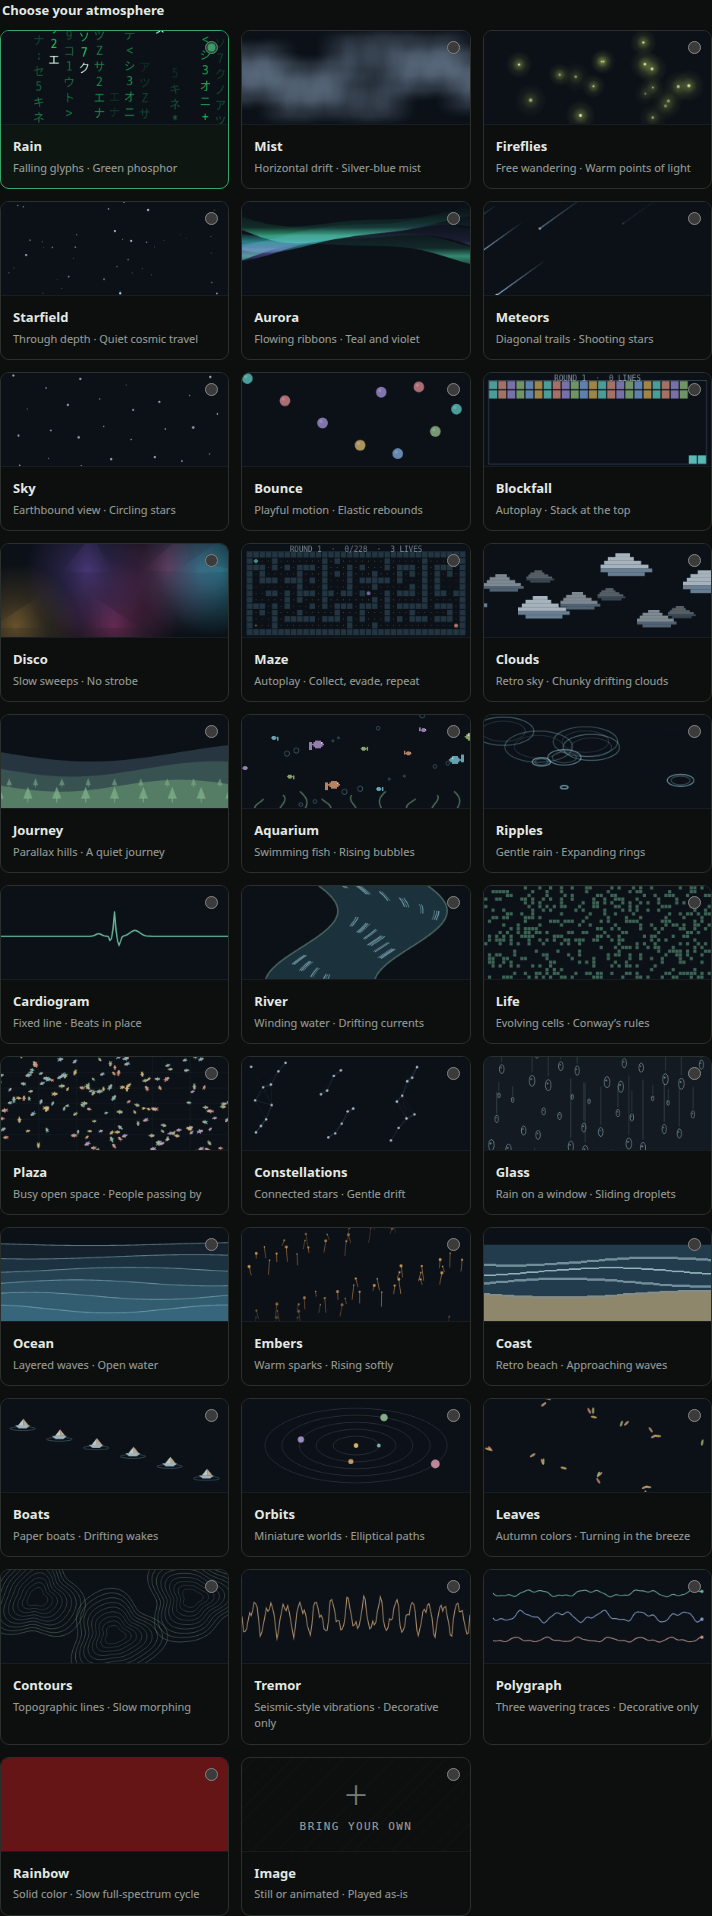
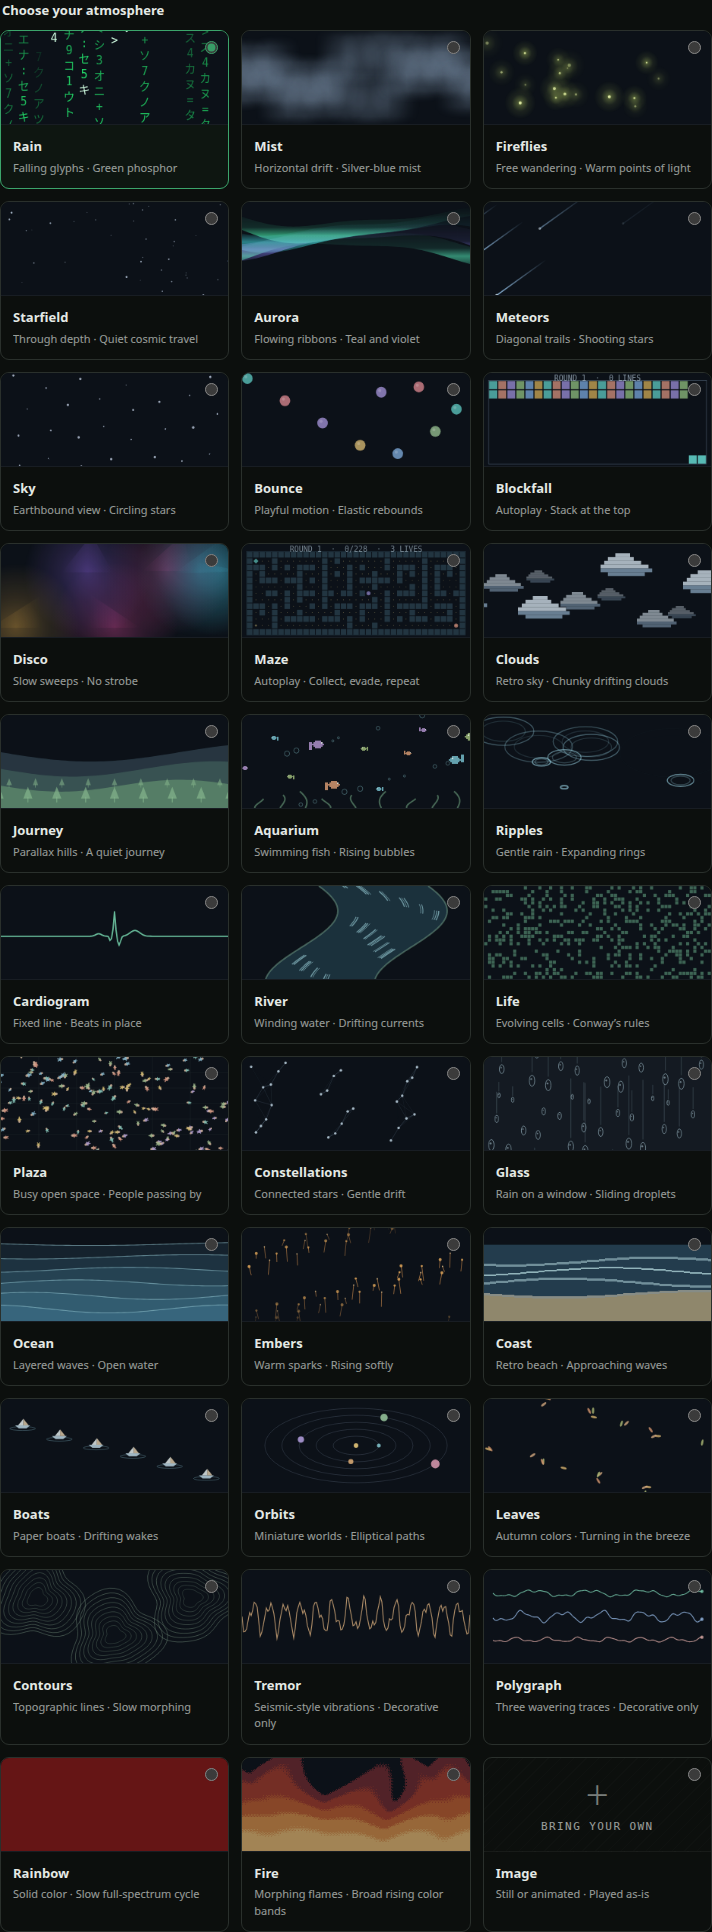
Add broad morphing Fire wallpaper for preview

diff --git a/tests/fire.test.ts b/tests/fire.test.ts
@@ -1,0 +1,99 @@
+import { expect, it } from "vitest"
+import { createScene } from "../src/scenes"
+import { fireLift, FIRE_MAX_PIXELS, FIRE_PALETTES } from "../src/scenes-fire"
+import { drawing } from "./environment"
+
+const context = drawing as unknown as CanvasRenderingContext2D
+function frame() {
+  const image = drawing.putImageData.mock.calls.at(-1)![0] as ImageData
+  return { width: image.width, height: image.height, data: new Uint8ClampedArray(image.data) }
+}
+
+it("Fire carries its broad deformation upward rather than scrolling a fixed picture", () => {
+  // The travelling deformation advances 0.26 / 8 canvas heights per second.
+  for (const height of [0.1, 0.4, 0.8]) {
+    expect(fireLift(height + 0.26 / 8 * 2, 7)).toBeCloseTo(fireLift(height, 5), 10)
+  }
+  const scene = createScene("fire")
+  scene.resize(800, 600); scene.draw(context, 0, 1)
+  const before = frame()
+  for (let i = 0; i < 100; i++) scene.draw(context, 0.1, 1)
+  const after = frame()
+  expect(after.data).not.toEqual(before.data)
+  // Each broad tongue also changes its silhouette, not merely its vertical phase.
+  const edge = (image: ReturnType<typeof frame>) => Array.from({ length: image.width }, (_, x) => {
+    for (let y = 0; y < image.height; y++) if (image.data[(y * image.width + x) * 4 + 3]) return y
+    return image.height
+  })
+  const afterEdge = edge(after), shifts = edge(before).map((value, x) => afterEdge[x] - value)
+  expect(new Set(shifts).size).toBeGreaterThan(10)
+})
+
+it("Fire covers most of landscape and portrait canvases with five fixed warm pigments", () => {
+  for (const appearance of ["dark", "light"] as const) for (const [width, height] of [[1200, 600], [390, 844]]) {
+    const scene = createScene("fire")
+    scene.resize(width, height)
+    for (const elapsed of [0, 10, 20]) {
+      for (let i = 0; i < elapsed * 10; i++) scene.draw(context, 0.1, 1, appearance)
+      scene.draw(context, 0, 1, appearance)
+      const image = frame(), colors = new Set<string>(), alphas = new Set<number>()
+      let painted = 0, upper = 0, bottom = 0
+      for (let pixel = 0; pixel < image.data.length / 4; pixel++) {
+        if (!image.data[pixel * 4 + 3]) continue
+        painted++
+        if (pixel < image.width * image.height * 0.2) upper++
+        if (pixel >= image.width * (image.height - 1)) bottom++
+        colors.add([...image.data.slice(pixel * 4, pixel * 4 + 3)].join(","))
+        alphas.add(image.data[pixel * 4 + 3])
+      }
+      expect(painted / (image.width * image.height)).toBeGreaterThan(0.75)
+      expect(upper).toBeGreaterThan(image.width * image.height * 0.05)
+      expect(bottom).toBe(image.width)
+      expect([...alphas]).toEqual([175])
+      expect([...colors].sort()).toEqual(FIRE_PALETTES[appearance].map(color => color.join(",")).sort())
+      expect(drawing.drawImage).toHaveBeenLastCalledWith(expect.any(HTMLCanvasElement), 0, 0, width, height)
+    }
+  }
+})
+
+it("Fire reuses a bounded raster, preserves paused time on resize, and restores dark colors", () => {
+  const scene = createScene("fire")
+  scene.resize(800, 600); scene.draw(context, 0.1, 1, "dark")
+  const dark = frame(), allocations = drawing.createImageData.mock.calls.length
+  scene.draw(context, 0, 1, "dark")
+  expect(frame().data).toEqual(dark.data)
+  expect(drawing.createImageData).toHaveBeenCalledTimes(allocations)
+  scene.draw(context, 0, 1, "light")
+  expect(frame().data).not.toEqual(dark.data)
+  scene.draw(context, 0, 1, "dark")
+  expect(frame().data).toEqual(dark.data)
+  for (const [width, height] of [[7680, 4320], [4320, 7680], [20000, 20], [1, 1]]) {
+    scene.resize(width, height); scene.draw(context, 0, 1)
+    const image = frame()
+    expect(image.width * image.height).toBeLessThanOrEqual(FIRE_MAX_PIXELS)
+    expect(Math.max(image.width, image.height)).toBeLessThanOrEqual(320)
+  }
+  scene.resize(800, 600); scene.draw(context, 0, 1, "dark")
+  expect(frame().data).toEqual(dark.data)
+  scene.resize(0, 0)
+  const paints = drawing.putImageData.mock.calls.length
+  scene.draw(context, 0.1, 1)
+  expect(drawing.putImageData).toHaveBeenCalledTimes(paints)
+})
+
+it("Fire changes gradually without randomized dither or whole-frame flicker", () => {
+  const scene = createScene("fire")
+  scene.resize(800, 600); scene.draw(context, 0, 1)
+  let before = frame()
+  for (let step = 0; step < 20; step++) {
+    scene.draw(context, 0.1, 1)
+    const after = frame()
+    let changed = 0
+    for (let pixel = 0; pixel < after.data.length / 4; pixel++) {
+      const offset = pixel * 4
+      if (after.data[offset] !== before.data[offset] || after.data[offset + 3] !== before.data[offset + 3]) changed++
+    }
+    expect(changed / (after.width * after.height)).toBeLessThan(0.02)
+    before = after
+  }
+})

diff --git a/src/scenes-fire.ts b/src/scenes-fire.ts
@@ -1,0 +1,83 @@
+import { AmbientScene, type Appearance } from "./scene"
+
+// Five pigments, not a bright photographic fire. Transparency lets the app's
+// surface remain part of the picture; light mode uses warm terracotta/pastels.
+export const FIRE_PALETTES = {
+  dark: [[113, 42, 48], [164, 60, 43], [193, 95, 48], [215, 143, 73], [231, 185, 113]],
+  light: [[177, 99, 91], [191, 116, 87], [205, 143, 97], [219, 171, 120], [231, 197, 151]],
+} as const satisfies Record<Appearance, readonly (readonly [number, number, number])[]>
+export const FIRE_MAX_PIXELS = 49152
+
+// A stationary ordered screen avoids random sparkling as the flames morph.
+const bayer = [0, 8, 2, 10, 12, 4, 14, 6, 3, 11, 1, 9, 15, 7, 13, 5]
+const smooth = (value: number) => { const t = Math.max(0, Math.min(1, value)); return t * t * (3 - 2 * t) }
+
+/** Features move toward increasing height, i.e. up from the canvas bottom. */
+export function fireLift(height: number, time: number) {
+  return Math.sin(height * 8 - time * 0.26)
+}
+
+export class Fire extends AmbientScene {
+  private texture: HTMLCanvasElement | undefined
+  private context: CanvasRenderingContext2D | null = null
+  private pixels: ImageData | undefined
+
+  protected layout() {
+    if (!this.width || !this.height) return
+    this.texture ??= document.createElement("canvas")
+    const scale = Math.min(1, 320 / this.width, 320 / this.height, Math.sqrt(FIRE_MAX_PIXELS / (this.width * this.height)))
+    const width = Math.max(1, Math.floor(this.width * scale)), height = Math.max(1, Math.floor(this.height * scale))
+    if (this.pixels?.width === width && this.pixels.height === height) return
+    this.texture.width = width; this.texture.height = height
+    this.context = this.texture.getContext("2d")
+    this.pixels = this.context?.createImageData(width, height)
+  }
+
+  protected paint(ctx: CanvasRenderingContext2D) {
+    if (!this.texture || !this.context || !this.pixels) return
+    const { width, height, data } = this.pixels, palette = FIRE_PALETTES[this.appearance]
+    // Broad overlapping tongues share a base. Their heights, widths, and bends
+    // evolve independently: this is a morphing field, never a translated bitmap.
+    const tongues = Array.from({ length: 5 }, (_, i) => ({
+      center: -0.02 + i * 0.26,
+      height: 1.02 + Math.sin(i * 2.1 + this.time * 0.09) * 0.12,
+      width: 0.23 + Math.sin(i * 1.7 - this.time * 0.07) * 0.035,
+      phase: i * 1.9,
+    }))
+    const row = tongues.map(() => ({ center: 0, width: 0, heat: 0 }))
+    for (let y = 0; y < height; y++) {
+      const rise = 1 - (y + 0.5) / height, lift = fireLift(rise, this.time)
+      // Trigonometry is evaluated per row/tongue, not for each output pixel.
+      for (let i = 0; i < tongues.length; i++) {
+        const tongue = tongues[i]
+        row[i].center = tongue.center + rise * (Math.sin(rise * 4 - this.time * 0.12 + tongue.phase) * 0.16
+          + Math.sin(rise * 7 - this.time * 0.19 + tongue.phase) * 0.035)
+        row[i].width = tongue.width * (1 - rise * 0.68)
+        row[i].heat = (tongue.height - rise) / tongue.height + lift * 0.045
+      }
+      for (let x = 0; x < width; x++) {
+        const horizontal = (x + 0.5) / width
+        let heat = -1
+        for (const tongue of row) {
+          const distance = (horizontal - tongue.center) / tongue.width
+          const next = tongue.heat - distance * distance * 0.22
+          const blend = Math.max(0, 0.1 - Math.abs(heat - next)) / 0.1
+          heat = Math.max(heat, next) + blend * blend * 0.025
+        }
+        // Wide flat bands with a little ordered mixing only at their boundaries.
+        // Index zero is transparent; the five remaining levels use fixed pigments.
+        const level = Math.max(0, Math.min(5, heat * 5 + 0.35)), lower = Math.floor(level)
+        const fraction = smooth((level - lower - 0.3) / 0.4)
+        const index = Math.min(5, lower + (fraction > (bayer[(y % 4) * 4 + x % 4] + 0.5) / 16 ? 1 : 0))
+        const offset = (y * width + x) * 4, color = palette[Math.max(0, index - 1)]
+        data[offset] = color[0]; data[offset + 1] = color[1]; data[offset + 2] = color[2]
+        data[offset + 3] = index ? 175 : 0
+      }
+    }
+    this.context.putImageData(this.pixels, 0, 0)
+    ctx.globalAlpha = 1
+    // Soft upscaling keeps the tiny dither screen subordinate to reading text.
+    ctx.imageSmoothingEnabled = true
+    ctx.drawImage(this.texture, 0, 0, this.width, this.height)
+  }
+}

diff --git a/tests/scenes.test.ts b/tests/scenes.test.ts
@@ -5,10 +5,12 @@ import { drawing } from "./environment"
 
 const context = drawing as unknown as CanvasRenderingContext2D
 function commands() {
-  return [drawing.fillText, drawing.drawImage, drawing.arc, drawing.ellipse, drawing.moveTo, drawing.lineTo, drawing.fillRect, drawing.strokeRect].map(fn => [...fn.mock.calls])
+  const vectors = [drawing.fillText, drawing.drawImage, drawing.arc, drawing.ellipse, drawing.moveTo, drawing.lineTo, drawing.fillRect, drawing.strokeRect].map(fn => [...fn.mock.calls])
+  // Raster scenes reuse their ImageData; snapshot bytes before the next paint.
+  return [...vectors, drawing.putImageData.mock.calls.map(([image]) => [...image.data])]
 }
 function clearCommands() {
-  for (const fn of [drawing.fillText, drawing.drawImage, drawing.arc, drawing.ellipse, drawing.moveTo, drawing.lineTo, drawing.fillRect, drawing.strokeRect]) fn.mockClear()
+  for (const fn of [drawing.fillText, drawing.drawImage, drawing.arc, drawing.ellipse, drawing.moveTo, drawing.lineTo, drawing.fillRect, drawing.strokeRect, drawing.putImageData]) fn.mockClear()
 }
 
 describe("wallpaper collection", () => {
@@ -64,7 +66,7 @@ describe("wallpaper collection", () => {
   }
   it("offers each built-in exactly once without a user-configurable direction", () => {
     expect(collection.map(scene => scene.id)).toEqual(MODES.filter(mode => mode !== "image"))
-    expect(new Set(collection.map(scene => scene.id)).size).toBe(31)
+    expect(new Set(collection.map(scene => scene.id)).size).toBe(32)
     expect(wallpaperName("image")).toBe("Image")
   })
   it("uses unique single-word display names without changing stored mode IDs", () => {
@@ -75,7 +77,7 @@ describe("wallpaper collection", () => {
       "ripple-pond": "Ripples", cardiogram: "Cardiogram", river: "River", life: "Life", plaza: "Plaza",
       constellations: "Constellations", glass: "Glass", ocean: "Ocean", embers: "Embers", coast: "Coast",
       boats: "Boats", orbits: "Orbits", leaves: "Leaves", contours: "Contours", tremor: "Tremor", polygraph: "Polygraph",
-      rainbow: "Rainbow",
+      rainbow: "Rainbow", fire: "Fire",
     })
     const titles = [...collection.map(scene => scene.title), wallpaperName("image")]
     expect(titles.every(title => /^\p{L}+$/u.test(title))).toBe(true)

diff --git a/src/scenes.ts b/src/scenes.ts
@@ -10,6 +10,7 @@ import { Glass, Ocean, Coast, Embers, Leaves } from "./scenes-landscapes"
 import { Constellations, Orbits, Boats, Contours } from "./scenes-patterns"
 import { Tremor, Polygraph } from "./scenes-instruments"
 import { Rainbow } from "./scenes-color"
+import { Fire } from "./scenes-fire"
 export type { Appearance, Scene } from "./scene"
 
 export const collection: ReadonlyArray<{ id: BuiltinMode; title: string; description: string }> = [
@@ -44,6 +45,7 @@ export const collection: ReadonlyArray<{ id: BuiltinMode; title: string; descrip
   { id: "tremor", title: "Tremor", description: "Seismic-style vibrations · Decorative only" },
   { id: "polygraph", title: "Polygraph", description: "Three wavering traces · Decorative only" },
   { id: "rainbow", title: "Rainbow", description: "Solid color · Slow full-spectrum cycle" },
+  { id: "fire", title: "Fire", description: "Morphing flames · Broad rising color bands" },
 ]
 
 export function wallpaperName(mode: string): string {
@@ -239,5 +241,6 @@ export function createScene(mode: BuiltinMode): Scene {
     case "tremor": return new Tremor()
     case "polygraph": return new Polygraph()
     case "rainbow": return new Rainbow()
+    case "fire": return new Fire()
   }
 }

diff --git a/src/gui.tsx b/src/gui.tsx
@@ -188,7 +188,7 @@ export default Plugin.define({
     ctx.add(SettingsPage, {
       id: "wallpaper", title: "Conversation wallpaper", icon: "settings-gear",
       entries: [
-        { id: "background", title: "Wallpaper collection and uploaded images", keywords: "matrix rain clouds fireflies starfield aurora meteors night sky balls blockfall disco maze pixel train aquarium pond cardiogram river life plaza people constellations glass ocean embers coast boats orbits leaves contours tremor polygraph waveform earthquake rainbow color spectrum hue wallpaper gif animation dimming pause" },
+        { id: "background", title: "Wallpaper collection and uploaded images", keywords: "matrix rain clouds fireflies starfield aurora meteors night sky balls blockfall disco maze pixel train aquarium pond cardiogram river life plaza people constellations glass ocean embers coast boats orbits leaves contours tremor polygraph waveform earthquake rainbow color spectrum hue fire flame dither wallpaper gif animation dimming pause" },
       ],
       render: () => <Settings />,
     })

diff --git a/src/preferences.ts b/src/preferences.ts
@@ -1,6 +1,6 @@
 export const MODES = ["matrix", "clouds", "fireflies", "starfield", "aurora", "meteors", "night-sky", "balls", "blockfall", "disco", "maze-chase",
   "pixel-clouds", "train-window", "aquarium", "ripple-pond", "cardiogram", "river", "life", "plaza",
-  "constellations", "glass", "ocean", "embers", "coast", "boats", "orbits", "leaves", "contours", "tremor", "polygraph", "rainbow", "image"] as const
+  "constellations", "glass", "ocean", "embers", "coast", "boats", "orbits", "leaves", "contours", "tremor", "polygraph", "rainbow", "fire", "image"] as const
 export type Mode = typeof MODES[number]
 export type BuiltinMode = Exclude<Mode, "image">
 export const MIN_SPEED = 0.2

diff --git a/tests/environment.ts b/tests/environment.ts
@@ -6,6 +6,8 @@ export const drawing = {
   arc: vi.fn(), ellipse: vi.fn(), fill: vi.fn(), moveTo: vi.fn(), lineTo: vi.fn(), stroke: vi.fn(),
   createLinearGradient: vi.fn(() => ({ addColorStop: vi.fn() })),
   createRadialGradient: vi.fn(() => ({ addColorStop: vi.fn() })),
+  createImageData: vi.fn((width: number, height: number) => ({ width, height, data: new Uint8ClampedArray(width * height * 4) })),
+  putImageData: vi.fn(),
   fillStyle: "", font: "", textAlign: "", globalAlpha: 1, lineWidth: 1, strokeStyle: "", globalCompositeOperation: "source-over",
 }
 export let reduced = false

diff --git a/README.md b/README.md
@@ -4,7 +4,7 @@ A small collection of animated atmospheres and local image backgrounds, behind c
 
 [Install](#install) · [Upgrade](#upgrade-an-existing-installation) · [Changelog](CHANGELOG.md) · [Development](#development) · [MIT license](LICENSE)
 
-![Wallpaper gallery with thirty-one single-word names and an Image upload option](docs/images/collection.png)
+![Wallpaper gallery with thirty-two single-word names and an Image upload option](docs/images/collection.png)
 
 ## The collection
 
@@ -41,6 +41,7 @@ A small collection of animated atmospheres and local image backgrounds, behind c
 | **Tremor** | Seismograph-style vibrations alternating between bursts and quieter intervals |
 | **Polygraph** | Three independently wavering, instrument-style traces |
 | **Rainbow** | One solid background color slowly cycling through the full color wheel |
+| **Fire** | Broad flame bands rising, bending, and slowly morphing across most of the background |
 | **Image** | A still or animated local image, displayed as-is |
 
 Each built-in wallpaper defines its own movement; there is no direction control. Select one from the gallery,
@@ -65,7 +66,23 @@ selections, preferences, or uploaded images; only display names changed. **Mist*
 | ![Chunky pixel clouds drifting across a dark sky in several layers](docs/images/pixel-clouds-dark.png) | ![A busy light-colored plaza with many tiny pedestrians crossing in different directions](docs/images/plaza-light.png) |
 
 These are real renderer captures from the mock desktop test layout, paused for screenshots—not screenshots of a live
-OpenCode Desktop installation. Your theme, fonts, and dimming setting may look different. All thirty-one built-ins animate.
+OpenCode Desktop installation. Your theme, fonts, and dimming setting may look different. All thirty-two built-ins animate.
+
+### Fire · slow color, changing shape
+
+| Dark theme | Light theme |
+| --- | --- |
+| ![Broad terracotta, orange, and amber flame bands behind readable text in dark mode](docs/images/fire-dark.png) | ![Soft terracotta and warm pastel flame bands behind dark text in light mode](docs/images/fire-light.png) |
+
+**Fire** takes its cue from Aurora's broad, unhurried, morphing color bands—not a realistic fireplace. Large flame
+tongues rise from the bottom and reach through most of the available width and height. Their silhouettes stretch,
+bend, merge, and relax rather than scrolling a fixed picture. Five warm pigments per appearance and fine, stationary
+dithering soften the transitions without sparks, rapid flicker, smoke particles, or sharp detail behind your text.
+Dark mode uses muted terracotta, orange, and amber; light mode uses softer terracotta and warm pastels. It follows
+OpenCode's appearance setting, including changes while paused, and shares the normal dimming, speed, pause, and reduced-motion
+controls. Aurora itself is unchanged.
+
+### Rainbow · one slowly changing color
 
 **Rainbow** fills the whole conversation with a single uniform color—no spatial gradient, pattern, or moving shapes.
 It smoothly visits every hue and loops after three minutes at 1× speed (45 seconds at 4×). Dark themes use deeper shades;
@@ -118,10 +135,11 @@ Maze scales the current match immediately, then generates a grid suited to the n
 - Honors system reduced motion by default, with an explicit opt-out. Built-ins stop and images freeze when the timeline or app document is hidden.
 - Live preview status explains pauses and reports actual painted frames. A **Make wallpaper more visible** preset sets 40% dimming and 1.2× speed.
 - Canvas effects capped at 24 fps and 2× pixel density. Cloud and firefly glow textures are cached; particle counts are bounded.
-- Thirty-one atmospheres spanning retro scenery, nature, space, autonomous games, cellular evolution, instrument-style lines, a busy crowd, and a slow solid-color cycle.
+- Thirty-two atmospheres spanning retro scenery, nature, space, autonomous games, cellular evolution, instrument-style lines, a busy crowd, a slow solid-color cycle, and broad morphing flames.
 - Clouds, fireflies, and stars automatically adapt to the app's light or dark appearance. Light mode uses blue-gray mist,
   amber fireflies, and ink-blue stars; the original dark palettes are preserved. Paused wallpapers and gallery thumbnails
   repaint when you switch themes, while uploaded images keep their original colors.
+- Fire uses at most 49,152 procedural pixels in a reusable offscreen canvas, softly scaled to fill the timeline; its fine dither screen stays fixed instead of sparkling.
 - Settings persist across sessions and apply to all workspaces. No model calls, remote image requests, or uploads.
 - Command-palette actions to open settings, hide/show wallpaper, and pause/resume animation.
 
@@ -293,7 +311,7 @@ Do not add install-time build scripts: the prebuilt package should be usable wit
 
 ### Verification scope
 
-Unit/DOM tests cover all thirty-one renderers (motion, still frames, 4× speed, resizing), input restrictions, host detection,
+Unit/DOM tests cover all thirty-two renderers (motion, still frames, 4× speed, resizing), input restrictions, host detection,
 hidden/paused/disabled states, animation cleanup, image snapshots/errors/removal, and late-mounted/cached timelines.
 Chromium tests run the **real plugin setup and settings UI against a mock host**, checking every animation,
 static gallery thumbnails, pause/resume, reduced motion, GIF import/freeze, unchanged still uploads, preserved uploads
@@ -313,14 +331,22 @@ periodicity, its fixed peak location, and its flat resting interval. Instrument 
 the browser also verifies that the heartbeat's peak stays at the same x coordinate as its height changes, then returns flat.
 Rainbow tests verify a complete hue-wheel cycle and seamless looping; browser checks inspect every canvas pixel to
 ensure its fill is a single uniform full-area color, while still animating and respecting pause and theme changes.
+Fire checks verify five-pigment palettes, broad coverage in portrait/landscape, upward deformation, changing silhouettes,
+bounded raster allocation, and paused resize/theme restoration. Browser checks also measure full-area Fire coverage.
 
 These are not a live OpenCode Desktop installation test. Verify the plugin in your actual app version before
 relying on compatibility. No global OpenCode configuration is modified by the tests or build.
 
-Refresh the twelve checked-in README images only after the browser checks succeed:
+Refresh the fourteen checked-in README images only after the browser checks succeed:
 
 ```sh
 npm run docs:screenshots
+```
+
+To refresh only selected images without changing unrelated captures:
+
+```sh
+npm run docs:screenshots -- --doc-images=collection.png,fire-dark.png,fire-light.png
 ```
 
 Use the same `CHROME_BIN` override as the browser tests if Chromium is already installed. No external images or assets are downloaded.

diff --git a/AGENTS.md b/AGENTS.md
@@ -8,7 +8,8 @@ Independent Git repository; parent is a workspace, not a monorepo.
 - MIT licensed. Keep LICENSE, SPDX package/lockfile metadata, and changelog included in the installable package. Public GitHub installation is CLI-first; do not make GitHub authentication a blanket prerequisite or change repository visibility without the user's direction.
 - Keep internal host selectors in `src/wallpaper.ts`. Fail closed when the expected timeline structure is absent.
 - Wallpaper never reads conversation text or changes message opacity, theme tokens, selection, scrolling, or pointer handling.
-- Thirty-one built-ins. Each owns its motion; do not expose direction controls. Gallery thumbnails are static. Only built-ins have speed controls; uploads display as-is without added movement or effects.
+- Thirty-two built-ins. Each owns its motion; do not expose direction controls. Gallery thumbnails are static. Only built-ins have speed controls; uploads display as-is without added movement or effects.
+- Fire follows Aurora's broad, slow, morphing-band philosophy but rises from the bottom across most of the canvas. Use five warm pigments with stationary fine dithering and theme-aware palettes; no sparks, flicker, added assets, or scrolling a fixed flame image. Keep Aurora unchanged.
 - Rainbow is a single solid full-canvas color, not a spatial gradient or moving shapes. It smoothly cycles all 360 hue degrees in 180 simulated seconds at 1×, with theme-appropriate lightness. Shared dimming/pause/reduced-motion controls still apply.
 - Display names are unique single words. Keep stored mode IDs stable when renaming copy; Mist is the soft clouds effect, Clouds is retro, and Image is the upload option.
 - Cardiogram must be a fixed line that spikes in place and rests flat between beats, never a horizontally scrolling waveform. Tremor and Polygraph are distinct procedural instrument-style traces. None reads sensors, typing, conversation content, medical data, or anyone's truthfulness; do not display fabricated measurements or diagnostic/detection claims.

diff --git a/CHANGELOG.md b/CHANGELOG.md
@@ -3,6 +3,13 @@
 Notable changes to Conversation Wallpaper. Releases are available as Git tags;
 the default branch can be installed and updated with the OpenCode CLI.
 
+## Unreleased (0.7.0)
+
+- Add Fire: broad, slowly morphing flames rising from the bottom across most of the conversation background.
+- Use five warm pigments per appearance, fine stationary dithering, and a bounded reusable raster; no sparks or flicker.
+- Preserve Aurora unchanged and reuse the existing dimming, speed, pause, visibility, and reduced-motion controls.
+- Add coverage, palette, morphing, upward-motion, resizing, and browser checks, plus light/dark README captures.
+
 ## [0.6.0]
 
 - Add Rainbow: one solid full-area background that smoothly cycles the entire color wheel.
